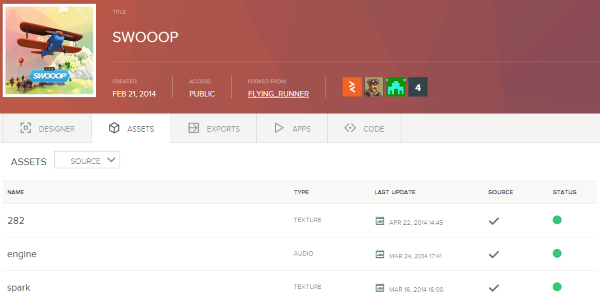
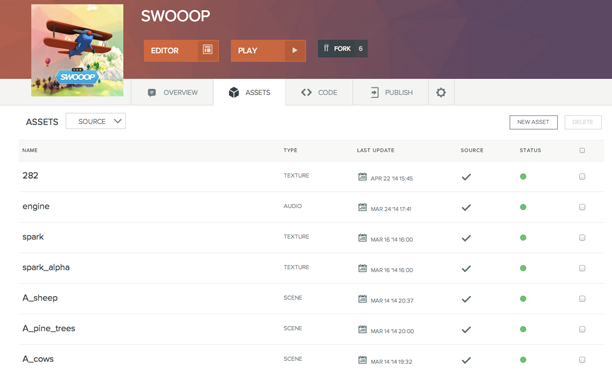
Updated docs for new dashboard overview and publishing pages

diff --git a/content/user-manual/publishing/playcanvas.md b/content/user-manual/publishing/playcanvas.md
@@ -4,15 +4,19 @@ template: page.tmpl.html
 position: 1
 ---
 
-The fastest, easiest, most convenient way to publish your game is to make it live on [playcanvas.com][playcanvas]. To publish in this way, follow these steps:
+The fastest, easiest, most convenient way to publish your game is to publish it live on playcanvas.com.
 
-* In your project dashboard, select the 'Designer' tab.
-* Check the pack that you want to export.
-* Click the 'Export' button at the top right of the pack lister.
-* Select the 'Exports' tab. You should see your exported pack. The generation of the export may not be complete when you view the Exports page. After all, the server has to do some work to generate your download for you. If the download link has not yet appeared, refresh the page until it is visible.
-* Check the newly exported pack.
-* Click the 'Publish' button at the top right of the exports lister.
-* A dialog will ask you for a name for the published app. This is used to construct the URL in the form `http://apps.playcanvas.com/<USERNAME>/<PROJECTNAME>/<GAMENAME>`. So for example, if PlayCanvas user 'will' had a project called 'callofhonor' and chose a publish name of 'megawar', the published URL would be `http://apps.playcanvas.com/will/callofhonor/megawar`. Enter a name and click 'OK'.
+To publish you will need to have at least one pack in your project. Then you can follow these steps:
+
+* In your project dashboard, select the 'PUBLISH' tab.
+
+![Publish](/images/platform/dashboard_publish.png)
+
+* Click the PUBLISH button
+* Enter a name for your app. This is used to construct the URL in the form `http://apps.playcanvas.com/<USERNAME>/<PROJECTNAME>/<GAMENAME>`. So for example, if PlayCanvas user 'will' had a project called 'callofhonor' and chose a publish name of 'megawar', the published URL would be `http://apps.playcanvas.com/will/callofhonor/megawar`.
+* Select the Packs you want to include in your app from the list. Notice that the Primary Pack (the one with the blue banner icon), is always included in your app and it will be the first pack loaded when your app is launched.
+* Click 'PUBLISH NOW'
+* You will see a new app created in the PUBLISH tab. Wait until it finishes processing.
 * Your web app is now live! Feel free to tweet it and share to Facebook right from the published URL.
 
-[playcanvas]: https://playcanvas.com
+In this page you can also set the Primary App for your project, by clicking on the banner icon on the left of each app. This will be the app that users play when they click on the PLAY button in the Dashboard Header.

diff --git a/content/user-manual/dashboard/publishing.md b/content/user-manual/dashboard/publishing.md
@@ -1,18 +1,22 @@
 ---
 title: Publishing
 template: page.tmpl.html
-position: 3
+position: 5
 ---
 
 The fastest, easiest, most convenient way to publish your game is to publish it live on playcanvas.com.
 
-To publish in this way, follow these steps:
+To publish you will need to have at least one pack in your project. Then you can follow these steps:
 
-* In your project dashboard, select the 'Designer' tab.
-* Check the pack that you want to export.
-* Click the 'Export' button at the top right of the pack lister.
-* Select the 'Exports' tab. You should see your exported pack. The generation of the export may not be complete when you view the Exports page. After all, the server has to do some work to generate your download for you. If the download link has not yet appeared, refresh the page until it is visible.
-* Check the newly exported pack.
-* Click the 'Publish' button at the top right of the exports lister.
-* A dialog will ask you for a name for the published app. This is used to construct the URL in the form `http://apps.playcanvas.com/<USERNAME>/<PROJECTNAME>/<GAMENAME>`. So for example, if PlayCanvas user 'will' had a project called 'callofhonor' and chose a publish name of 'megawar', the published URL would be `http://apps.playcanvas.com/will/callofhonor/megawar`. Enter a name, click 'Publish' and check the 'Apps' tab... 
+* In your project dashboard, select the 'PUBLISH' tab.
+
+![Publish](/images/platform/dashboard_publish.png)
+
+* Click the PUBLISH button
+* Enter a name for your app. This is used to construct the URL in the form `http://apps.playcanvas.com/<USERNAME>/<PROJECTNAME>/<GAMENAME>`. So for example, if PlayCanvas user 'will' had a project called 'callofhonor' and chose a publish name of 'megawar', the published URL would be `http://apps.playcanvas.com/will/callofhonor/megawar`.
+* Select the Packs you want to include in your app from the list. Notice that the Primary Pack (the one with the blue banner icon), is always included in your app and it will be the first pack loaded when your app is launched.
+* Click 'PUBLISH NOW'
+* You will see a new app created in the PUBLISH tab. Wait until it finishes processing.
 * Your web app is now live! Feel free to tweet it and share to Facebook right from the published URL.
+
+In this page you can also set the Primary App for your project, by clicking on the banner icon on the left of each app. This will be the app that users play when they click on the PLAY button in the Dashboard Header.

diff --git a/content/user-manual/publishing/self-hosting.md b/content/user-manual/publishing/self-hosting.md
@@ -7,7 +7,7 @@ position: 2
 If you want to self-host your game on your own web site, there are a couple of options:
 
 1. Embed a PlayCanvas hosted game using an [iframe][iframe].
-2. Download your game from your project page and upload the files to your own site. 
+2. Download your game from your project page and upload the files to your own site.
 
 ## iframe Embedding
 
@@ -39,11 +39,14 @@ The simplest example of a page which embeds this PlayCanvas game would be:
 
 In order to host your game independently of PlayCanvas' servers, do the following:
 
-* In your project dashboard, select the 'Designer' tab.
-* Check the pack that you want to export.
-* Click the 'Export' button at the top right of the pack lister.<br><br><img alt="Export" width="640" src="/images/publishing/selfhosting/export.png"></img>
-* Select the 'Exports' tab. You should see your exported pack. The generation of the export may not be complete when you view the Exports page. After all, the server has to do some work to generate your download for you. If the download link has not yet appeared, refresh the page until it is visible.
-* Click download and your ZIP will be downloaded to your hard drive.
+* In your project dashboard, select the 'PUBLISH' tab.
+
+![Publish](/images/platform/dashboard_publish.png)
+
+* Click the DOWNLOAD button
+* Enter a name for your export. This will be the name of the .zip file that will be created for you.
+* Select the Packs you want to include in your export from the list. Notice that the Primary Pack (the one with the blue banner icon), is always included and it will be the first pack loaded when your app is launched.
+* Click on the 'Web' button on the bottom to download your export for Web deployment.
 * Extract the contents wherever you like and point a browser at the contained index.html. You PlayCanvas web app will load.
 
 If you run your game from your local file system, it needs to be served from a local web server. If you don't do this, the browser will block HTTP requests made by the engine (for security purposes). There are many options for running a web server. Here are a few:

diff --git a/content/getting-started.md b/content/getting-started.md
@@ -24,7 +24,7 @@ A Project is a collection of:
 
 ## Creating a New Project
 
-On your profile page, press the "+" button to create a new Project. This takes you to a page where you set the details of your new project:
+On your profile page, click on the PROJECTS tab and click on 'Create a Project'. This takes you to a page where you set the details of your new project:
 
 * **Starter Kit** - Starter kits are great ways to get a project up and running quickly. If you want to create a platformer or simply display a 3D model that you've made, you can use a starter kit.
 * **Name** - The name is used to build the URL for your project. For example, if user 'joebloggs' created a project called 'spacewar', the project can be found at http://playcanvas.com/joebloggs/spacewar
@@ -136,7 +136,7 @@ Once you've edited the code, press the "Save" button in the code editor and swit
 
 With that done, you can select the Launch button from the toolbar once again. This time, you should see your box rotating on the spot. Congratulations, you have built your first PlayCanvas app!
 
-[profile]: /images/platform/profile.jpg "Profile"
+[profile]: /images/platform/profile.png "Profile"
 [project_list]:  /images/platform/project_list.jpg "Project List"
 [collaborators]: /images/platform/collaborators.png "Collaborators"
 [pack_explorer]: /images/platform/pack_explorer.png "Pack Explorer"

diff --git a/content/user-manual/dashboard/index.md b/content/user-manual/dashboard/index.md
@@ -6,4 +6,4 @@ position: 3
 
 ![Dashboard](/images/platform/dashboard2.png)
 
-The Project Dashboard is the control centre for your project. From the dashboard you can view all the Packs you've created; you can upload and manage your assets and your asset importing pipeline. The project dashboard displays your code directory, either your PlayCanvas directory or your synced repository from a service like [Github](https://github.com) or [Bitbucket](https://bitbucket.org/). Finally, you can also publish your game live to the web, or export it to a zip file and download it.
+The Project Dashboard is the control centre for your project. From the dashboard you can view your project's development log, access and create new Packs, or upload and manage your assets. The project dashboard displays your code directory, either your PlayCanvas directory or your synced repository from a service like [Github](https://github.com) or [Bitbucket](https://bitbucket.org/). Finally, you can also publish your game live to the web, or export it to a zip file and download it.

diff --git a/content/user-manual/dashboard/header.md b/content/user-manual/dashboard/header.md
@@ -1,0 +1,17 @@
+---
+title: Dashboard Header
+template: page.tmpl.html
+position: 1
+---
+
+![Dashboard](/images/platform/dashboard_header.png)
+
+The Dashboard Header provides various buttons to quickly perform common actions for a project.
+
+By clicking on the EDITOR button you can open up the PlayCanvas Designer and also manage your packs.
+
+![Editor](/images/platform/dashboard_header_editor.png)
+
+You can click on a pack to open it up and you can click on the buttons on the right of each pack to play a pack, duplicate it or delete it. You can also click on the banner icon on the left of each pack to make it the Primary Pack. The Primary Pack is the first pack loaded when you publish an app or when you export your project. Think of it as the first 'level' in your application.
+
+By clicking on the PLAY button you can play the Primary App of this project. By clicking on the FORK button you can fork this project, which means that a clone of this project will be copied to your account.

diff --git a/content/user-manual/dashboard/settings.md b/content/user-manual/dashboard/settings.md
@@ -1,7 +1,7 @@
 ---
 title: Settings
 template: page.tmpl.html
-position: 5
+position: 6
 ---
 
 The settings dashboard lets you set up Project and Application settings.
@@ -20,7 +20,7 @@ If you want your project to be featured on playcanvas.com, you must add a projec
 
 #### Private
 
-Private projects are only visible to users who have been explicitly assigned read, write or admin access. 
+Private projects are only visible to users who have been explicitly assigned read, write or admin access.
 
 <div class="alert alert-info">
 Only users with premium accounts can access private projects

diff --git a/content/user-manual/publishing/chromewebstore.md b/content/user-manual/publishing/chromewebstore.md
@@ -52,7 +52,7 @@ Check it out for yourself <a href="https://chrome.google.com/webstore/detail/swo
 
 Generating a packaged app from a PlayCanvas game takes a little more effort than a hosted app. Here's a run down of the steps required to package and publish a game like SWOOOP:
 
-* Download the most recently exported version of the game from the Exports tab of the Project Dashboard.
+* Download an export of your game from the Publish tab of the Project Dashboard.
 * Unzip the contents.
 * Create a manifest.json file . For SWOOOP, it looks like this:
 

diff --git a/content/user-manual/profile.md b/content/user-manual/profile.md
@@ -15,5 +15,5 @@ You can change your profile image using the [Gravatar][gravatar] global profile 
 Click the 'cog' icon in the top-right here to access your global profile settings. From here you can control your account and billing info and see your cloud storage use.
 
 
-[profile_page]: /images/platform/profile.jpg "Profile"
+[profile_page]: /images/platform/profile.png "Profile"
 [gravatar]: https://gravatar.com/

diff --git a/content/user-manual/dashboard/overview.md b/content/user-manual/dashboard/overview.md
@@ -1,0 +1,11 @@
+---
+title: Overview
+template: page.tmpl.html
+position: 2
+---
+
+![Overview](/images/platform/dashboard_overview.png)
+
+The overview page shows information about your project along with your project's dev log. You can see and manage your team and also post news or updates about your project.
+
+

diff --git a/content/user-manual/dashboard/assets.md b/content/user-manual/dashboard/assets.md
@@ -1,7 +1,7 @@
 ---
 title: Assets
 template: page.tmpl.html
-position: 2
+position: 3
 ---
 
 ![Dashboard](/images/platform/dashboard_assets.png)
